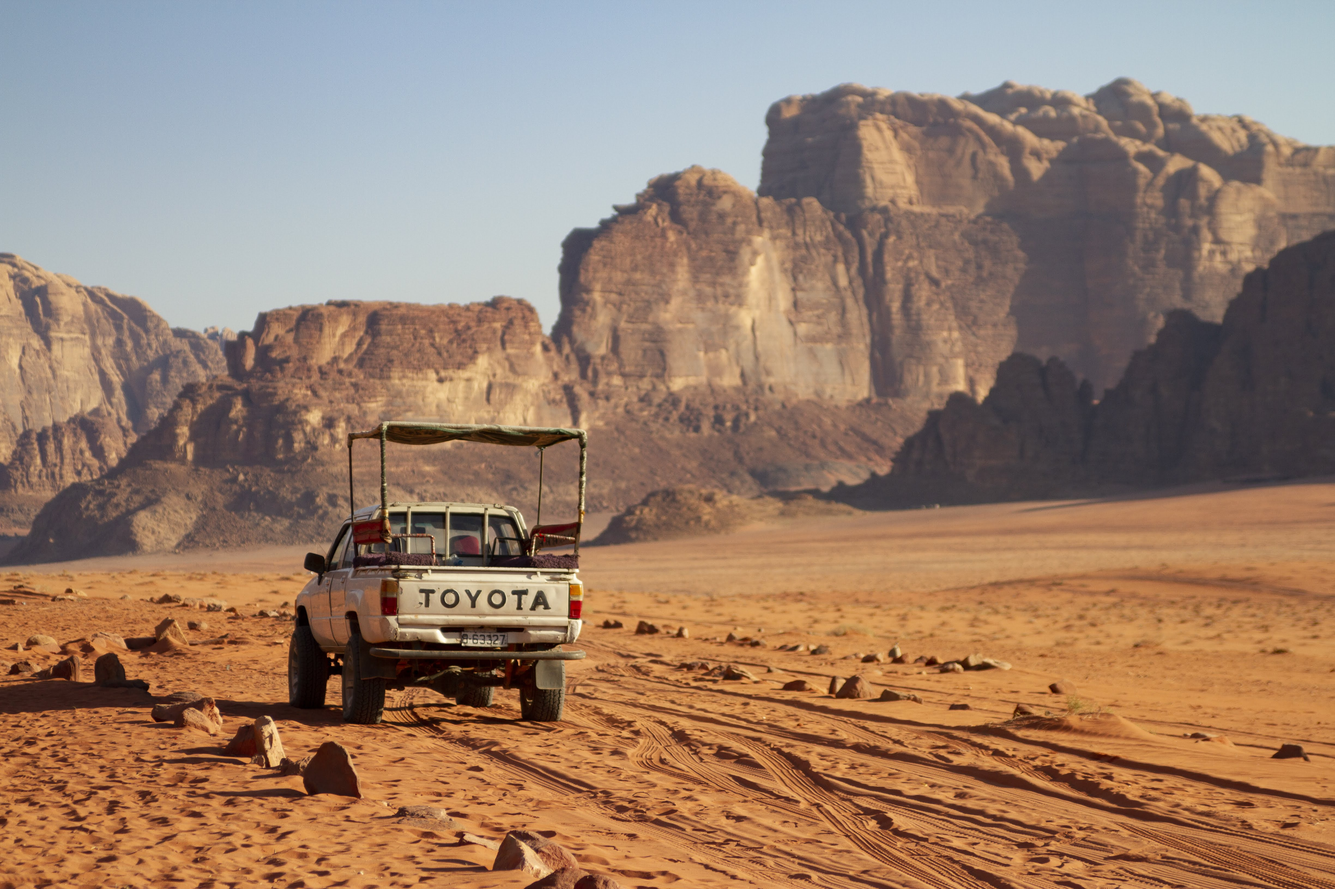
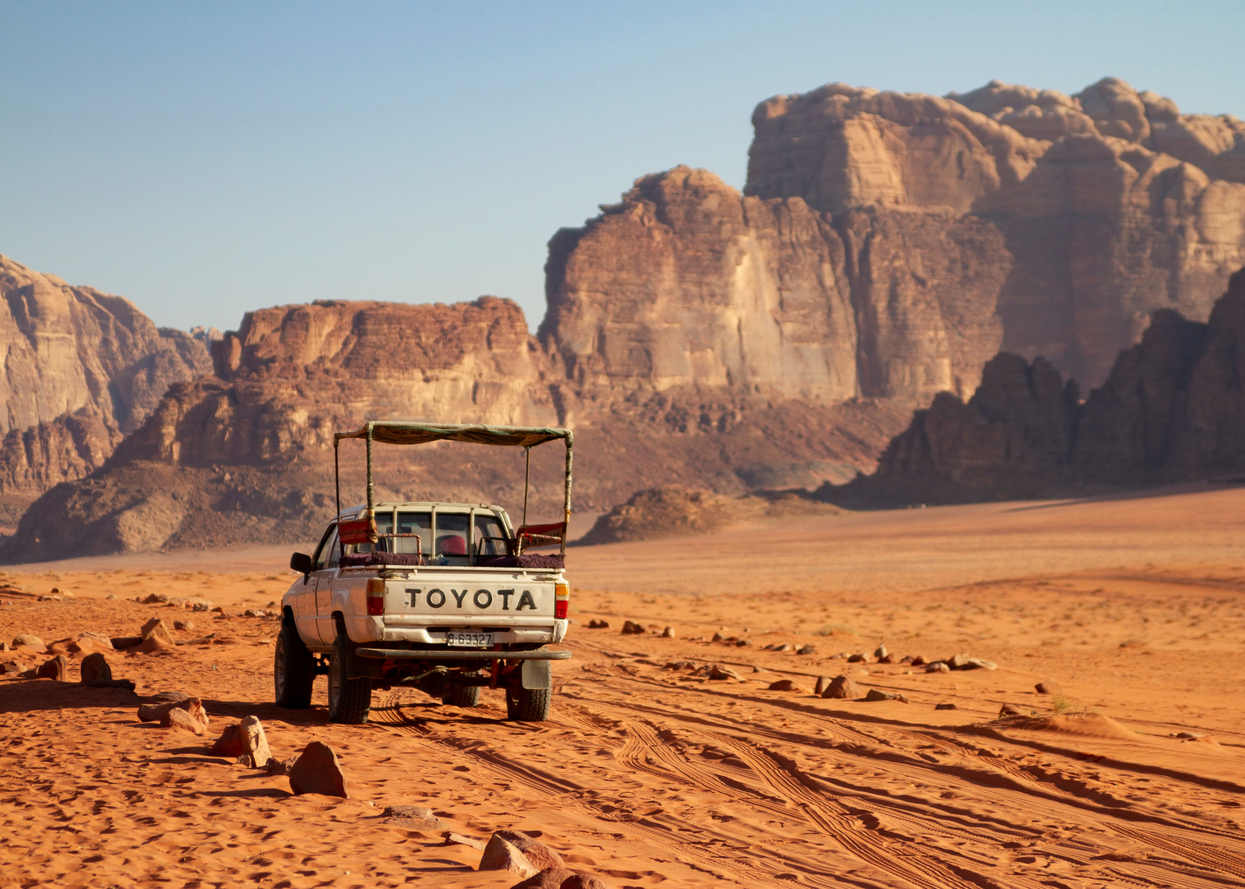
fixed photo carousel, added more photos

diff --git a/src/components/Photos.tsx b/src/components/Photos.tsx
@@ -3,125 +3,183 @@ import Carousel, { Modal, ModalGateway } from 'react-images';
 import { createUseStyles } from 'react-jss';
 import Gallery from 'react-photo-gallery';
 
+import Image from './Image';
+
 const useStyles = createUseStyles((theme) => ({
-  container: {},
+  container: {
+    margin: 2,
+  },
 }));
 
 const photos = [
   {
-    src: require("../imgs/scaled/apple-picking.jpg") as string,
+    src: "apple-picking.jpg",
     width: 2,
     height: 3,
-    title: "My younger sister picking apples in Central MA",
+    alt: "My younger sister picking apples in Central MA",
   },
   {
-    src: require("../imgs/scaled/clue-beach.jpg") as string,
+    src: "clue-beach.jpg",
     width: 8,
     height: 10,
-    title: "Clue at the beach in Winthrop, MA",
+    alt: "Clue at the beach in Winthrop, MA",
   },
   {
-    src: require("../imgs/scaled/mei-mv.jpg") as string,
+    src: "mei-mv.jpg",
     width: 7,
     height: 5,
-    title: "Mei at the golden hour on Menemsha Beach, Martha's Vineyard",
+    alt: "Mei at the golden hour on Menemsha Beach, Martha's Vineyard",
   },
   {
-    src: require("../imgs/scaled/bacardi.jpg") as string,
+    src: "pr-beach.jpg",
     width: 3,
     height: 2,
-    title: "Casa Bacardí in Puerto Rico",
+    alt: "A sunny day at the beach in San Juan, Puerto Rico",
   },
   {
-    src: require("../imgs/scaled/la-jolla.jpg") as string,
-    width: 16,
-    height: 9,
-    title: "Seals and birds bask in the sun at the La Jolla Cove",
-  },
-  {
-    src: require("../imgs/scaled/ships.jpg") as string,
+    src: "bacardi.jpg",
     width: 3,
     height: 2,
-    title: "Ships docked at sunset along the Embarcadero in San Diego",
+    alt: "Casa Bacardí in Puerto Rico",
   },
   {
-    src: require("../imgs/scaled/embarcadero.jpg") as string,
+    src: "la-jolla.jpg",
     width: 16,
     height: 9,
-    title:
+    alt: "Seals and birds bask in the sun at the La Jolla Cove",
+  },
+  {
+    src: "ships.jpg",
+    width: 3,
+    height: 2,
+    alt: "Ships docked at sunset along the Embarcadero in San Diego",
+  },
+  {
+    src: "embarcadero.jpg",
+    width: 16,
+    height: 9,
+    alt:
       "A single boat drifts across the frame, at the Embarcadero in San Francisco",
   },
   {
-    src: require("../imgs/scaled/farm.jpg") as string,
+    src: "farm.jpg",
     width: 4,
     height: 3,
-    title: "Fall in Vermont at a relative's farm",
+    alt: "Fall in Vermont at a relative's farm",
   },
   {
-    src: require("../imgs/scaled/lake-tahoe.jpg") as string,
+    src: "lake-tahoe.jpg",
     width: 3,
     height: 2,
-    title: "Dramatic clouds over Lake Tahoe, Nevada side",
+    alt: "Dramatic clouds over Lake Tahoe, Nevada side",
   },
   {
-    src: require("../imgs/scaled/golden-gate.jpg") as string,
+    src: "golden-gate.jpg",
     width: 16,
     height: 9,
-    title: "The golden hour at the Golden Gate Bridge in San Francisco",
+    alt: "The golden hour at the Golden Gate Bridge in San Francisco",
   },
   {
-    src: require("../imgs/scaled/sausalito.jpg") as string,
+    src: "sausalito.jpg",
     width: 3,
     height: 2,
-    title: "The fog rolling over the hills in Sausalito",
+    alt: "The fog rolling over the hills in Sausalito",
   },
   {
-    src: require("../imgs/scaled/light-string.jpg") as string,
+    src: "fishermans-wharf.jpg",
     width: 7,
     height: 5,
-    title: "A string of lights hanging in my backyard",
+    alt: "The San Francisco sunset reflects off a ferry at Fisherman's Wharf",
   },
   {
-    src: require("../imgs/scaled/palm-tree.jpg") as string,
+    src: "light-string.jpg",
+    width: 7,
+    height: 5,
+    alt: "A string of lights hanging in my backyard",
+  },
+  {
+    src: "palm-tree.jpg",
     width: 1,
     height: 1,
-    title: "Clouds lazily drift by a palm tree in Barcelona",
+    alt: "Clouds lazily drift by a palm tree in Barcelona",
   },
   {
-    src: require("../imgs/scaled/mei-pisa.jpg") as string,
-    width: 3,
-    height: 2,
-    title: "The Leaning Tower of Pisa reflected in Mei's glasses",
-  },
-  {
-    src: require("../imgs/scaled/venice-bar.jpg") as string,
-    width: 2,
-    height: 3,
-    title: "Dusk at a rooftop bar in Venice",
-  },
-  {
-    src: require("../imgs/scaled/louvre-outside.jpg") as string,
-    width: 3,
-    height: 2,
-    title: "The Louvre in Paris",
-  },
-  {
-    src: require("../imgs/scaled/mei-rodin.jpg") as string,
+    src: "cruise-sunset.jpg",
     width: 4,
     height: 3,
-    title: "Mei at the Rodin Museum in Paris",
+    alt: "The sun sets over the Mediterranean Sea",
   },
   {
-    src: require("../imgs/scaled/desert.jpg") as string,
+    src: "mei-pisa.jpg",
+    width: 3,
+    height: 2,
+    alt: "The Leaning Tower of Pisa reflected in Mei's glasses",
+  },
+  {
+    src: "scrooser.jpg",
+    width: 3,
+    height: 2,
+    alt: "Cruising along the seaside in Marseille",
+  },
+  {
+    src: "venice-bar.jpg",
+    width: 2,
+    height: 3,
+    alt: "Dusk at a rooftop bar in Venice",
+  },
+  {
+    src: "louvre-outside.jpg",
+    width: 3,
+    height: 2,
+    alt: "The Louvre in Paris",
+  },
+  {
+    src: "mei-rodin.jpg",
+    width: 4,
+    height: 3,
+    alt: "Mei at the Rodin Museum in Paris",
+  },
+  {
+    src: "sacre-coeur.jpg",
+    width: 3,
+    height: 2,
+    alt: "Sacre-Coeur peaking out from the trees in Paris",
+  },
+  {
+    src: "mei-brunch.jpg",
+    width: 7,
+    height: 5,
+    alt: "Mei at brunch at Sarabeth's in New York City",
+  },
+  {
+    src: "winston-fire.jpg",
+    width: 4,
+    height: 3,
+    alt: "Winston hanging out in front of the fire around Christmas time",
+  },
+  {
+    src: "wadi-rum.jpg",
+    width: 7,
+    height: 5,
+    alt: "Morning in the Wadi Rum desert in Jordan",
+  },
+  {
+    src: "big-dipper.jpg",
+    width: 3,
+    height: 2,
+    alt: "The Big Dipper rising over the Wadi Rum desert in Jordan",
+  },
+  {
+    src: "desert.jpg",
     width: 8,
     height: 10,
-    title: "Driving through the Wadi Rum desert in Jordan",
+    alt: "Driving through the Wadi Rum desert in Jordan",
   },
   {
-    src: require("../imgs/scaled/palm-tree-sunset.jpg") as string,
+    src: "palm-tree-sunset.jpg",
     width: 16,
     height: 9,
-    title: "The sun sets behind a palm tree in Tel Aviv",
+    alt: "The sun sets behind a palm tree in Tel Aviv",
   },
 ];
 
@@ -143,7 +201,28 @@ const Photos = () => {
   const classes = useStyles();
   return (
     <div className={classes.container}>
-      <Gallery photos={photos} onClick={openLightbox} />
+      <Gallery
+        photos={photos}
+        onClick={openLightbox}
+        targetRowHeight={400}
+        renderImage={(props) => (
+          <Image
+            src={require(`../imgs/scaled/${props.photo.src}`)}
+            overlaySrc={require(`../imgs/thumbnails/${props.photo.src}`)}
+            alt={props.photo.alt || ""}
+            style={{
+              width: props.photo.width,
+              height: props.photo.height,
+              margin: props.margin,
+              cursor: "pointer",
+            }}
+            onClick={(event: any) =>
+              props.onClick && props.onClick(event, { index: props.index })
+            }
+            key={props.photo.src}
+          />
+        )}
+      />
       <ModalGateway>
         {viewerIsOpen && (
           <Modal onClose={closeLightbox} allowFullscreen={false}>
@@ -151,9 +230,17 @@ const Photos = () => {
               currentIndex={currentImage}
               views={photos.map((x) => ({
                 ...x,
-                source: x.src,
-                caption: x.title,
+                source: require(`../imgs/scaled/${x.src}`),
+                caption: x.alt,
               }))}
+              styles={{
+                view: (base) => ({
+                  ...base,
+                  "& > img": {
+                    maxHeight: "100vh",
+                  },
+                }),
+              }}
             />
           </Modal>
         )}

diff --git a/src/components/Updates.tsx b/src/components/Updates.tsx
@@ -16,11 +16,13 @@ type MarkdownImageProps = {
 
 const useStyles = createUseStyles((theme: AppTheme) => ({
   updateContainer: {
-    width: "75%",
-    minWidth: 290,
+    width: "90%",
+    maxWidth: 750,
     margin: "auto",
     background: theme.colorHighlight,
     padding: 30,
+    paddingLeft: 5,
+    paddingRight: 5,
     marginTop: 30,
     marginBottom: 50,
     boxShadow: `${shadowColor(0.25)} 0px 0px 20px 0`,
@@ -28,9 +30,8 @@ const useStyles = createUseStyles((theme: AppTheme) => ({
   },
   body: {
     textAlign: "left",
-    width: "60%",
-    minWidth: 240,
-    maxWidth: 600,
+    width: "75%",
+    maxWidth: 550,
     margin: "auto",
     position: "relative",
     fontSize: "1.2rem",

diff --git a/src/components/HeaderBar.tsx b/src/components/HeaderBar.tsx
@@ -7,7 +7,7 @@ import { AppTheme } from '../types/styles';
 import NavLink from './NavLink';
 import { sectionFallbacks } from './Sidebar';
 
-const headerHeight = "7.5vh";
+const headerHeight = "60px";
 const headerHiddenUntil = 300;
 
 const useStyles = createUseStyles((theme: AppTheme) => ({
@@ -30,6 +30,10 @@ const useStyles = createUseStyles((theme: AppTheme) => ({
 
     "& li": {
       float: "left",
+    },
+
+    "& button": {
+      fontSize: "1.2rem",
     },
   },
 }));

diff --git a/src/components/NavLink.tsx b/src/components/NavLink.tsx
@@ -12,11 +12,11 @@ const buttonBehavior = {
 const useStyles = createUseStyles((theme: AppTheme) => ({
   navLink: {
     margin: 15,
-    marginLeft: 5,
-    marginRight: 5,
+    marginLeft: 3,
+    marginRight: 3,
   },
   navButton: {
-    fontSize: 24,
+    fontSize: "1.5rem",
     color: (props: NavLinkProps) => (props.active ? theme.colorPrimary : ""),
     "&:hover": {
       color: (props: NavLinkProps) =>
